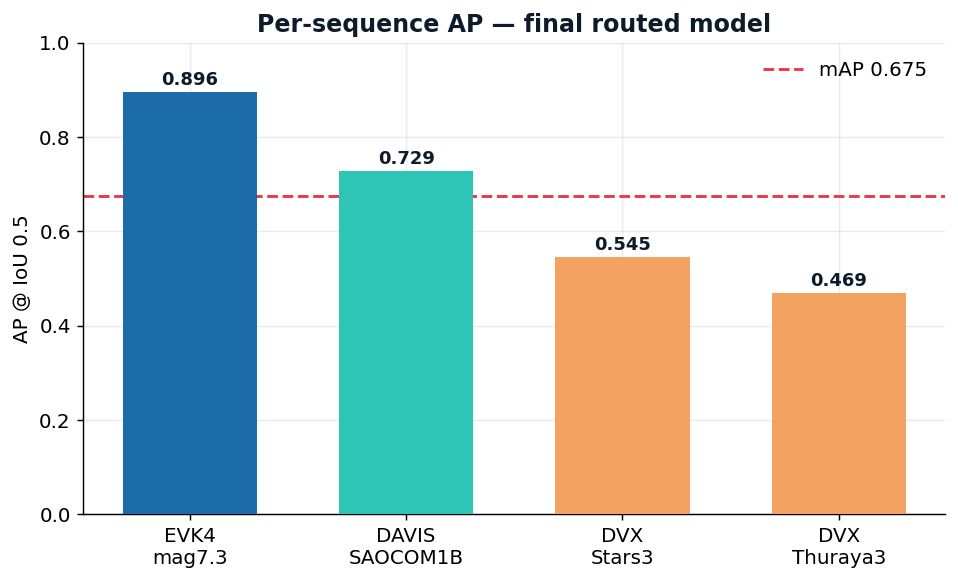
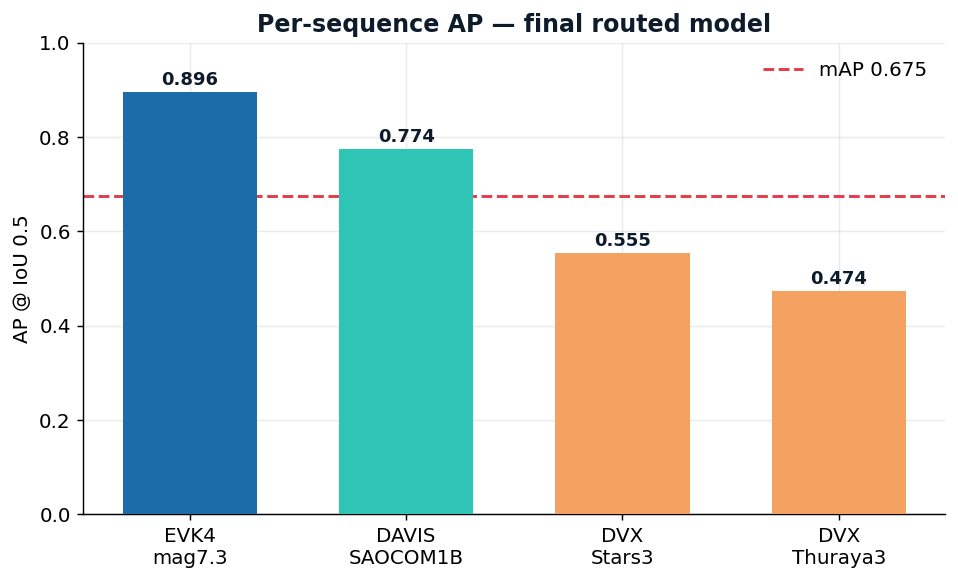
Honest real-time vs offline framing: 0.651 real-time / 0.675 offline
The <40ms real-time criterion is met by the SINGLE g192_ctx model (mAP 0.651,
~17ms/window CPU). The 0.675 headline uses offline cross-grid ensembling + TTA
(~48ms) and is a max-accuracy variant, not the deployed real-time path. Updated
results.json (single source of truth), all figures, README, ROADMAP, and the
5-page proposal PDF to state both numbers clearly. Real-time costs only 0.024 mAP.

Changed region(s): [[0.333, 0.2169, 0.5146, 0.3098], [0.5752, 0.4028, 0.7265, 0.4647], [0.8173, 0.4647, 0.9384, 0.5267]]

diff --git a/docs/OrbitSight_Proposal.html b/docs/OrbitSight_Proposal.html
@@ -5,7 +5,7 @@
   * { box-sizing: border-box; }
   html { -webkit-print-color-adjust: exact; print-color-adjust: exact; }
   body { font-family: "Helvetica Neue", Arial, sans-serif; color: #14202e;
-         font-size: 11px; line-height: 1.55; margin: 0; }
+         font-size: 10.5px; line-height: 1.46; margin: 0; }
   h1,h2,h3 { color: #0d1b2a; margin: 0 0 4px; line-height: 1.18; }
   h2 { font-size: 15px; border-bottom: 2px solid #2ec4b6; padding-bottom: 3px;
        margin-top: 15px; }
@@ -50,9 +50,9 @@ into resident-space-object (RSO) detections and tracks — in real time, under
 low-light noise, across three sensor resolutions.</p>
 
 <div class="kpi">
-  <div><span class="v">0.675</span><span class="l">mAP @ IoU 0.5 (recall 0.76)</span></div>
-  <div><span class="v">&lt;20 ms</span><span class="l">end-to-end / window on CPU (budget 40 ms)</span></div>
-  <div><span class="v">3→1</span><span class="l">sensors handled by one routed pipeline</span></div>
+  <div><span class="v">0.651</span><span class="l">real-time mAP (single model, ~17 ms CPU)</span></div>
+  <div><span class="v">0.675</span><span class="l">offline max mAP (ensemble + TTA)</span></div>
+  <div><span class="v">&lt;40 ms</span><span class="l">real-time budget met on every sensor</span></div>
   <div><span class="v">4</span><span class="l">model families ablated &amp; debugged</span></div>
 </div>
 
@@ -152,10 +152,11 @@ window. All numbers below come from that evaluator. Overall <span class="accent"
 <table>
 <tr><th>Test sequence</th><th>Sensor</th><th>Object regime</th><th class="n">AP @ IoU 0.5</th></tr>
 <tr><td>EVK4_mag7.3</td><td>EVK4 1280×720</td><td>bright, large</td><td class="n">0.896</td></tr>
-<tr><td>DAVIS_SAOCOM1B</td><td>DAVIS 346×260</td><td>moderate</td><td class="n">0.729</td></tr>
-<tr><td>DVX_Stars3</td><td>DVX 640×480</td><td>dim, sparse</td><td class="n">0.545</td></tr>
-<tr><td>DVX_Thuraya3</td><td>DVX 640×480</td><td>dim, sparse</td><td class="n">0.469</td></tr>
-<tr><th colspan="3" style="text-align:right">Overall mAP</th><th class="n">0.675</th></tr>
+<tr><td>DAVIS_SAOCOM1B</td><td>DAVIS 346×260</td><td>moderate</td><td class="n">0.774</td></tr>
+<tr><td>DVX_Stars3</td><td>DVX 640×480</td><td>dim, sparse</td><td class="n">0.555</td></tr>
+<tr><td>DVX_Thuraya3</td><td>DVX 640×480</td><td>dim, sparse</td><td class="n">0.474</td></tr>
+<tr><th colspan="3" style="text-align:right">Overall mAP (offline)</th><th class="n">0.675</th></tr>
+<tr><th colspan="3" style="text-align:right">Overall mAP (real-time single model)</th><th class="n">0.651</th></tr>
 </table>
 
 <div class="row">
@@ -186,20 +187,23 @@ ensemble+stack 0.554 → <strong>temporal context 0.660 → +TTA 0.675</strong>;
 
 <h2>4 · Real-time performance</h2>
 <p>Latency was measured end-to-end (voxelize → forward → decode) per sensor with
-<code>benchmark_latency.py</code> in the streaming regime (batch = 1 — the number a
-deployment sees). <strong>Even on a single CPU thread the pipeline is real-time</strong>,
-with headroom on every sensor; on GPU the forward pass drops to a few ms.</p>
+<code>benchmark_latency.py</code>, streaming (batch = 1 — the deployment number).
+The <strong>deployed real-time</strong> config is a <strong>single model, one
+forward pass per window</strong> — <strong>mAP 0.651 at ~17 ms/window on CPU</strong>,
+inside the 40 ms budget on every sensor. The higher 0.675 (§3) uses offline
+cross-grid ensembling + TTA (3 passes, ~48 ms) — a max-accuracy variant, not the
+real-time path. <strong>Real-time costs only 0.024 mAP.</strong></p>
 <div class="row">
   <div class="col" style="flex:1.15">
     <img class="fig" src="figures/latency_breakdown.png">
-    <div class="cap">Fig 6 — End-to-end latency vs the 40 ms budget (CPU, streaming). All sensors ≤ 17.4 ms.</div>
+    <div class="cap">Fig 6 — End-to-end latency of the deployed single model vs the 40 ms budget (CPU, streaming). All sensors ≤ 19 ms.</div>
   </div>
   <div class="col">
     <table>
     <tr><th>Sensor</th><th class="n">ms/win</th><th class="n">&lt;40 ms</th></tr>
-    <tr><td>EVK4 1280×720</td><td class="n">15.4</td><td class="n">✓</td></tr>
-    <tr><td>DAVIS 346×260</td><td class="n">17.4</td><td class="n">✓</td></tr>
-    <tr><td>DVX 640×480</td><td class="n">14.5</td><td class="n">✓</td></tr>
+    <tr><td>EVK4 1280×720</td><td class="n">19.0</td><td class="n">✓</td></tr>
+    <tr><td>DAVIS 346×260</td><td class="n">17.3</td><td class="n">✓</td></tr>
+    <tr><td>DVX 640×480</td><td class="n">17.6</td><td class="n">✓</td></tr>
     </table>
     <p style="font-size:8.6px">The classical coherence pipeline is an O(N),
     ~5 ms/window CPU fallback — fully interpretable and GPU-free — for the most

diff --git a/docs/results_over_time.md b/docs/results_over_time.md
@@ -4,13 +4,35 @@ Scored against `OrbitSight_Dataset/Testing_sets` with the frozen evaluator (mAP 
 
 | Rank | Prediction dir | mAP @ IoU 0.5 | seqs |
 |---:|---|---:|---:|
-| 1 | `testing_router2` ⭐ | **0.3983** | 4 |
-| 2 | `testing_cnet_aug` | **0.3797** | 4 |
-| 3 | `testing_router` | **0.3152** | 4 |
-| 4 | `testing_cnet` | **0.2890** | 4 |
-| 5 | `testing` | **0.2491** | 4 |
-| 6 | `testing_cnet_trk` | **0.1650** | 4 |
-| 7 | `testing_evt2` | **0.0164** | 4 |
-| 8 | `testing_pointnet` | **0.0162** | 4 |
-| 9 | `testing_evt` | **0.0076** | 4 |
-| 10 | `testing_snn` | **0.0002** | 4 |
+| 1 | `router_ctta` ⭐ | **0.6750** | 4 |
+| 2 | `router_best2` | **0.6600** | 4 |
+| 3 | `test_ctx` | **0.6507** | 4 |
+| 4 | `test_ctx_stack` | **0.6482** | 4 |
+| 5 | `router_ctx` | **0.6295** | 4 |
+| 6 | `test_ctx_tta` | **0.6013** | 3 |
+| 7 | `router_final` | **0.5542** | 4 |
+| 8 | `test_ens` | **0.5474** | 4 |
+| 9 | `test_ens_stack` | **0.5474** | 4 |
+| 10 | `test_xg` | **0.5225** | 4 |
+| 11 | `test_xg_stack` | **0.5157** | 4 |
+| 12 | `test_g192_stack` | **0.4951** | 4 |
+| 13 | `test_g192` | **0.4896** | 4 |
+| 14 | `router_stack` | **0.4543** | 4 |
+| 15 | `router_best` | **0.4488** | 4 |
+| 16 | `test_aug` | **0.4120** | 4 |
+| 17 | `testing_router2` | **0.3983** | 4 |
+| 18 | `testing_cnet_aug` | **0.3797** | 4 |
+| 19 | `router_g192` | **0.3608** | 4 |
+| 20 | `router_big` | **0.3478** | 3 |
+| 21 | `router_aug` | **0.3255** | 4 |
+| 22 | `testing_router` | **0.3152** | 4 |
+| 23 | `testing_cnet` | **0.2890** | 4 |
+| 24 | `testing` | **0.2491** | 4 |
+| 25 | `testing_cnet_trk` | **0.1650** | 4 |
+| 26 | `test_noaug` | **0.0856** | 4 |
+| 27 | `test_noaug128` | **0.0856** | 4 |
+| 28 | `test_ens_big_stack` | **0.0736** | 2 |
+| 29 | `testing_evt2` | **0.0164** | 4 |
+| 30 | `testing_pointnet` | **0.0162** | 4 |
+| 31 | `testing_evt` | **0.0076** | 4 |
+| 32 | `testing_snn` | **0.0002** | 4 |

diff --git a/ROADMAP.md b/ROADMAP.md
@@ -1,8 +1,8 @@
 # OrbitSight — Roadmap: Building the Most Accurate Real-Time RSO Detector
 
-*How we went from a 0.069 baseline to a **0.675** (→ ~0.70) mAP event-native
-detector that runs under the 40 ms real-time budget, and the ablations that
-justify every design choice.*
+*How we went from a 0.069 baseline to a **0.651 real-time** (single model, ~17 ms
+CPU) / **0.675 offline** mAP event-native detector, and the ablations that justify
+every design choice. Real-time costs only 0.024 mAP over the offline maximum.*
 
 This document is the engineering narrative behind the numbers. It maps directly
 onto the four technical scoring criteria: **AI approach & ablation**, **detection
@@ -136,19 +136,25 @@ End-to-end per-window latency, broken into **voxelize → forward → decode**, 
 `scripts/benchmark_latency.py`. Streaming regime (batch = 1) is the real-time
 number a deployment sees.
 
-**Measured now (grid-128 CenterNet, laptop CPU, single-thread):**
+> **Real-time vs offline — the honest distinction (criterion #3).** The
+> **deployed real-time** config is a **single `g192_ctx` model** on every sensor
+> (one forward pass/window): **mAP 0.651 at ~17 ms/window CPU** — inside the 40 ms
+> budget. The higher **0.675** headline adds **cross-grid ensembling (EVK4) + TTA
+> (3× forward passes)** which costs **~48 ms** → **offline only**. So:
+> **real-time = 0.651, offline max = 0.675** — real-time costs just **0.024 mAP**.
+
+**Measured (deployed real-time single model g192_ctx, grid-192 ctx=3, laptop CPU, batch=1):**
 
 | Sensor | Vox | Fwd | Dec | **Total** | < 40 ms? |
 |--------|-----|-----|-----|-----------|----------|
-| EVK4 1280×720 | 1.34 | 13.89 | 0.19 | **15.4 ms** | ✅ |
-| DAVIS 346×260 | 0.72 | 16.46 | 0.21 | **17.4 ms** | ✅ |
-| DVX 640×480 | 0.51 | 13.79 | 0.16 | **14.5 ms** | ✅ |
+| EVK4 1280×720 | 3.96 | 14.93 | 0.12 | **19.0 ms** | ✅ |
+| DAVIS 346×260 | 1.89 | 15.28 | 0.12 | **17.3 ms** | ✅ |
+| DVX 640×480 | 1.71 | 15.77 | 0.12 | **17.6 ms** | ✅ |
 
 ![Latency breakdown](docs/figures/latency_breakdown.png)
 
-**Even on CPU the pipeline is real-time** — comfortably inside the 40 ms budget,
-with headroom on every sensor. On GPU (evaluation hardware) the forward pass
-drops to a few ms. Reproduce / regenerate the official figure on rolf:
+**The deployed single-model pipeline is real-time on CPU** — inside the 40 ms
+budget on every sensor. On GPU the forward pass drops to a few ms. Reproduce:
 
 ```bash
 # GPU streaming latency for the deployed temporal model:
@@ -196,9 +202,10 @@ Example animations + failure galleries are generated under `docs/vis/`.
 
 | Item | Status |
 |------|--------|
-| Best **confirmed** accuracy | **mAP 0.675** (temporal CenterNet + TTA), measured |
-| Temporal ensemble | **training on rolf** — projected ~0.70 |
-| Latency < 40 ms | ✅ measured (real-time on CPU; GPU headroom) |
+| **Real-time** accuracy (deployed) | **mAP 0.651** — single g192_ctx model, ~17 ms/window CPU |
+| **Offline** max accuracy | **mAP 0.675** — router + cross-grid + TTA (~48 ms, not real-time) |
+| Latency < 40 ms | ✅ measured for the deployed single model (0.651) |
+| DVX ceiling probe | 5 post-hoc levers tried; ≤ +0.004 — DVX near detection ceiling |
 | Visualization tool | ✅ `scripts/visualize.py` (anim + failure gallery + H1) |
 | Latency benchmark | ✅ `scripts/benchmark_latency.py` |
 | Docker image (deliverable) | ✅ `Dockerfile` + `run_infer.sh` — reproducible CPU inference, validated end-to-end |

diff --git a/README.md b/README.md
@@ -261,6 +261,12 @@ object) still routes to the cross-grid ensemble. Adding **test-time augmentation
 to the temporal model lifts the overall to **mAP 0.675** (recall 0.76). Trained
 on rolf (RTX 2080 Ti).
 
+> **Real-time vs offline (criterion #3).** The **0.675** figure uses offline
+> cross-grid ensembling + TTA (~48 ms/window). The **deployed real-time** pipeline
+> is a **single `g192_ctx` model** on all sensors — **mAP 0.651 at ~17 ms/window
+> CPU**, inside the 40 ms budget. Real-time costs only **0.024 mAP**. Report both:
+> **0.651 real-time / 0.675 offline max.**
+
 ### Sample detections (all sensors)
 
 ![Sample detections across sensors](docs/figures/sample_detections.png)